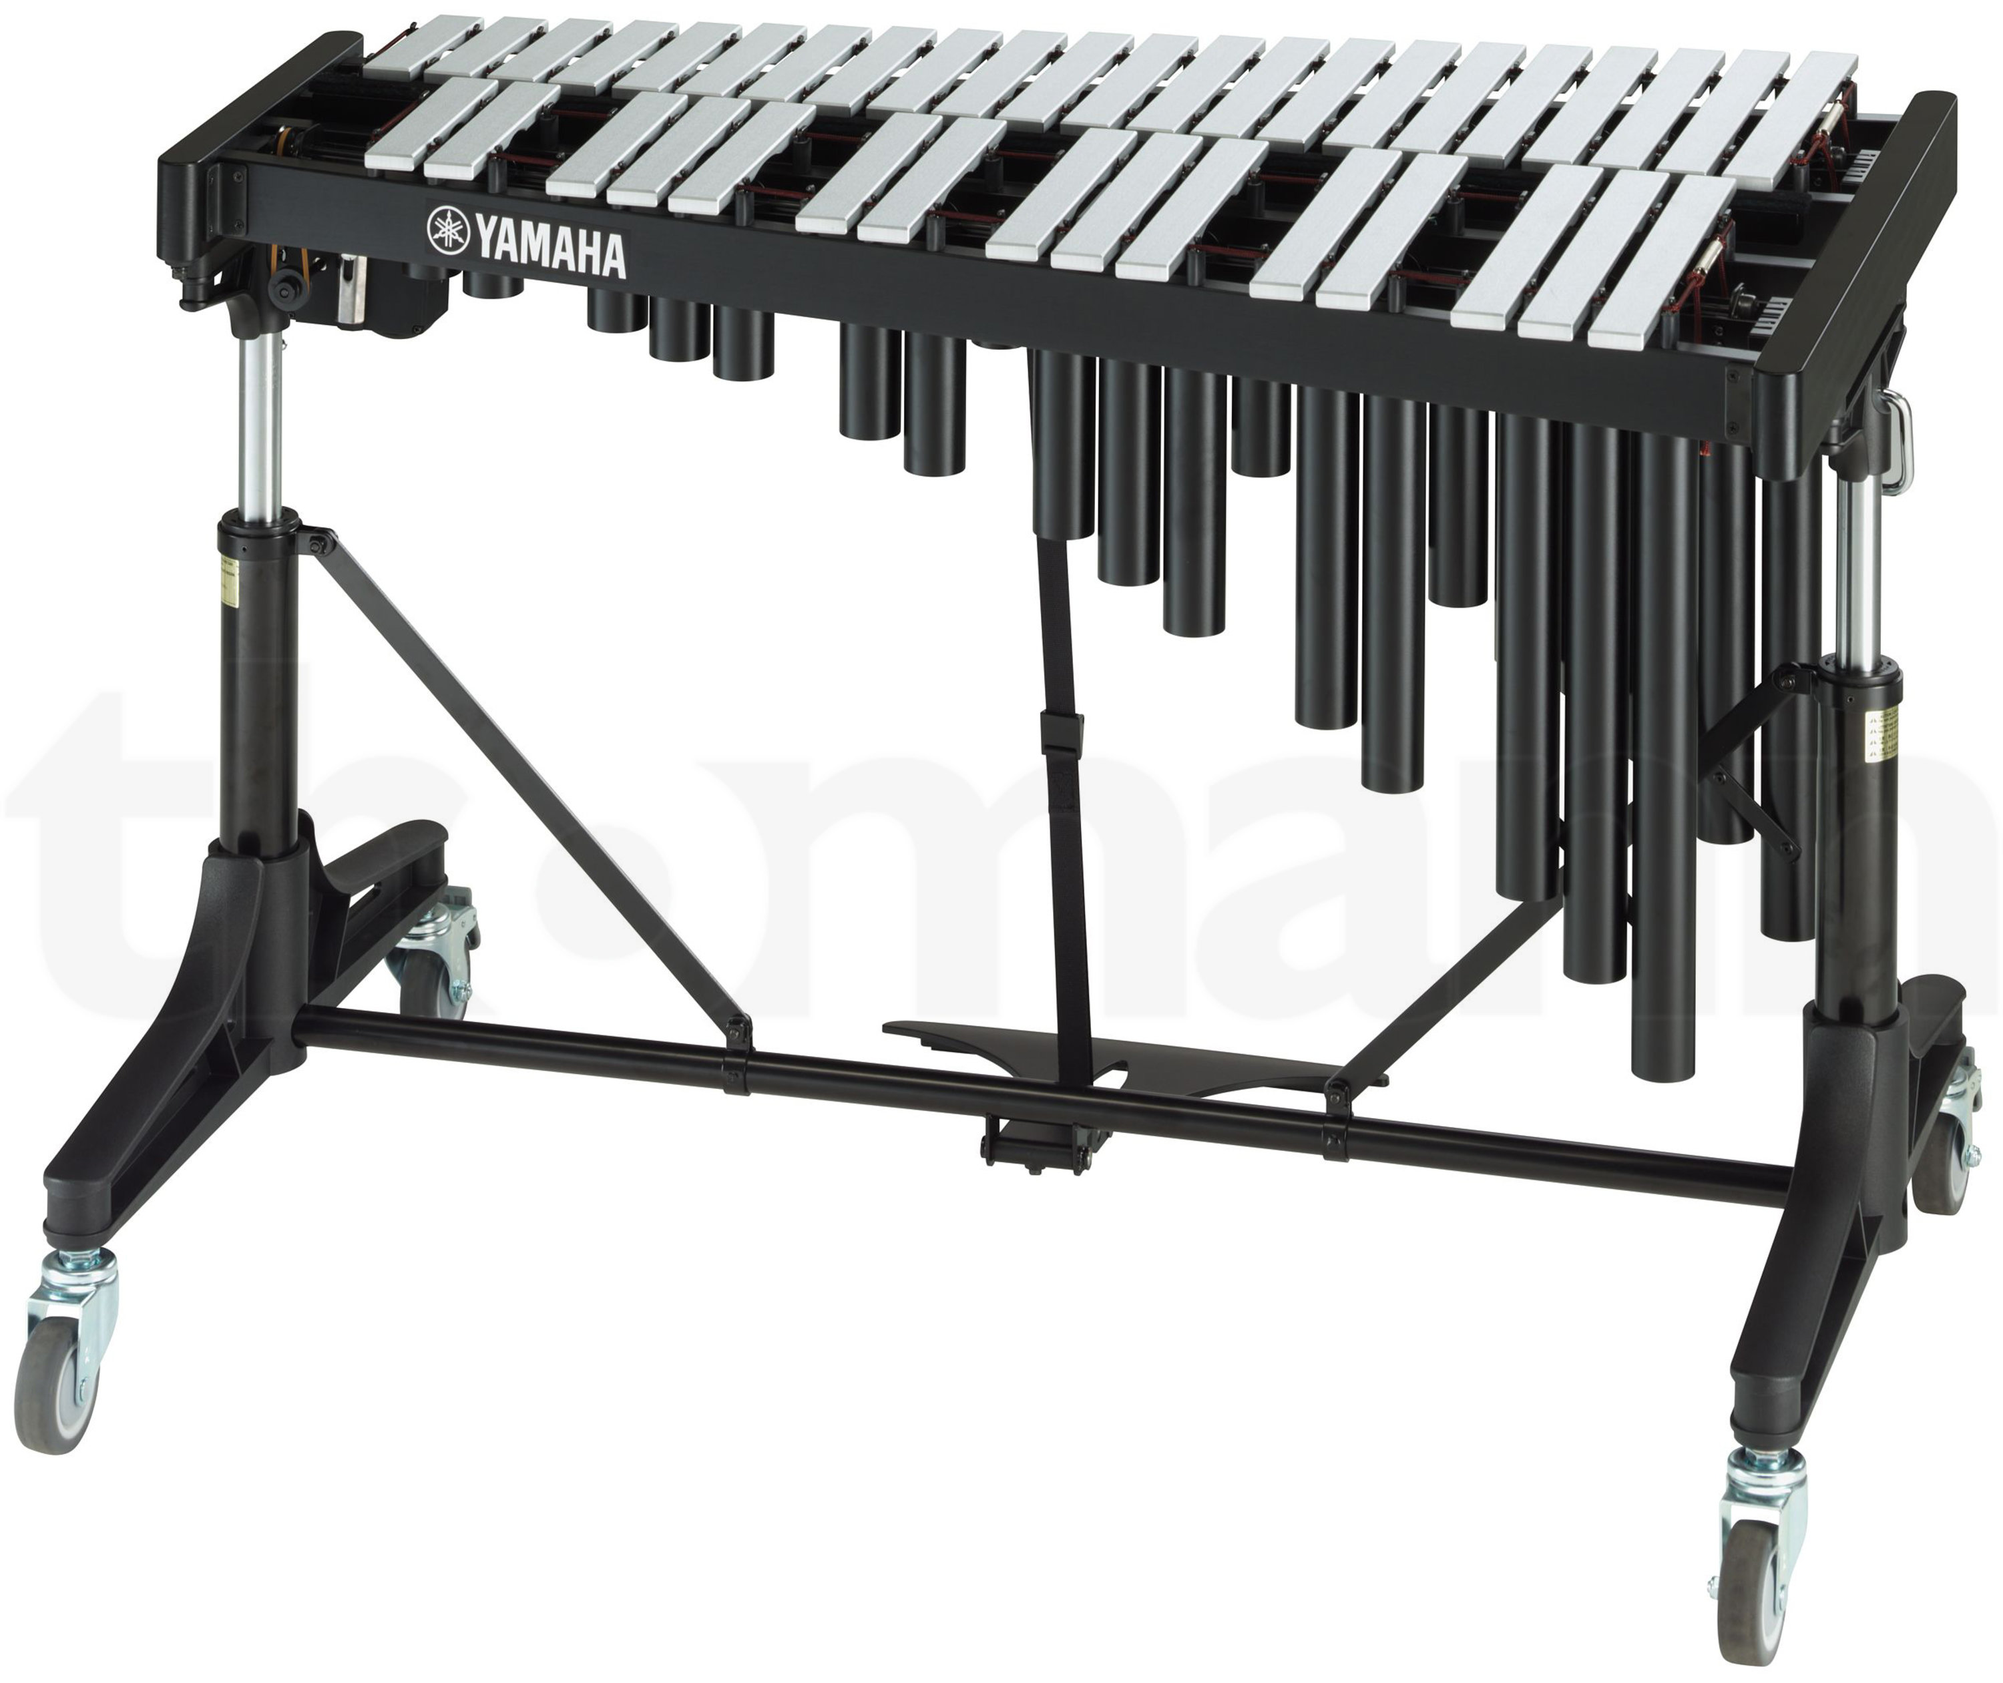
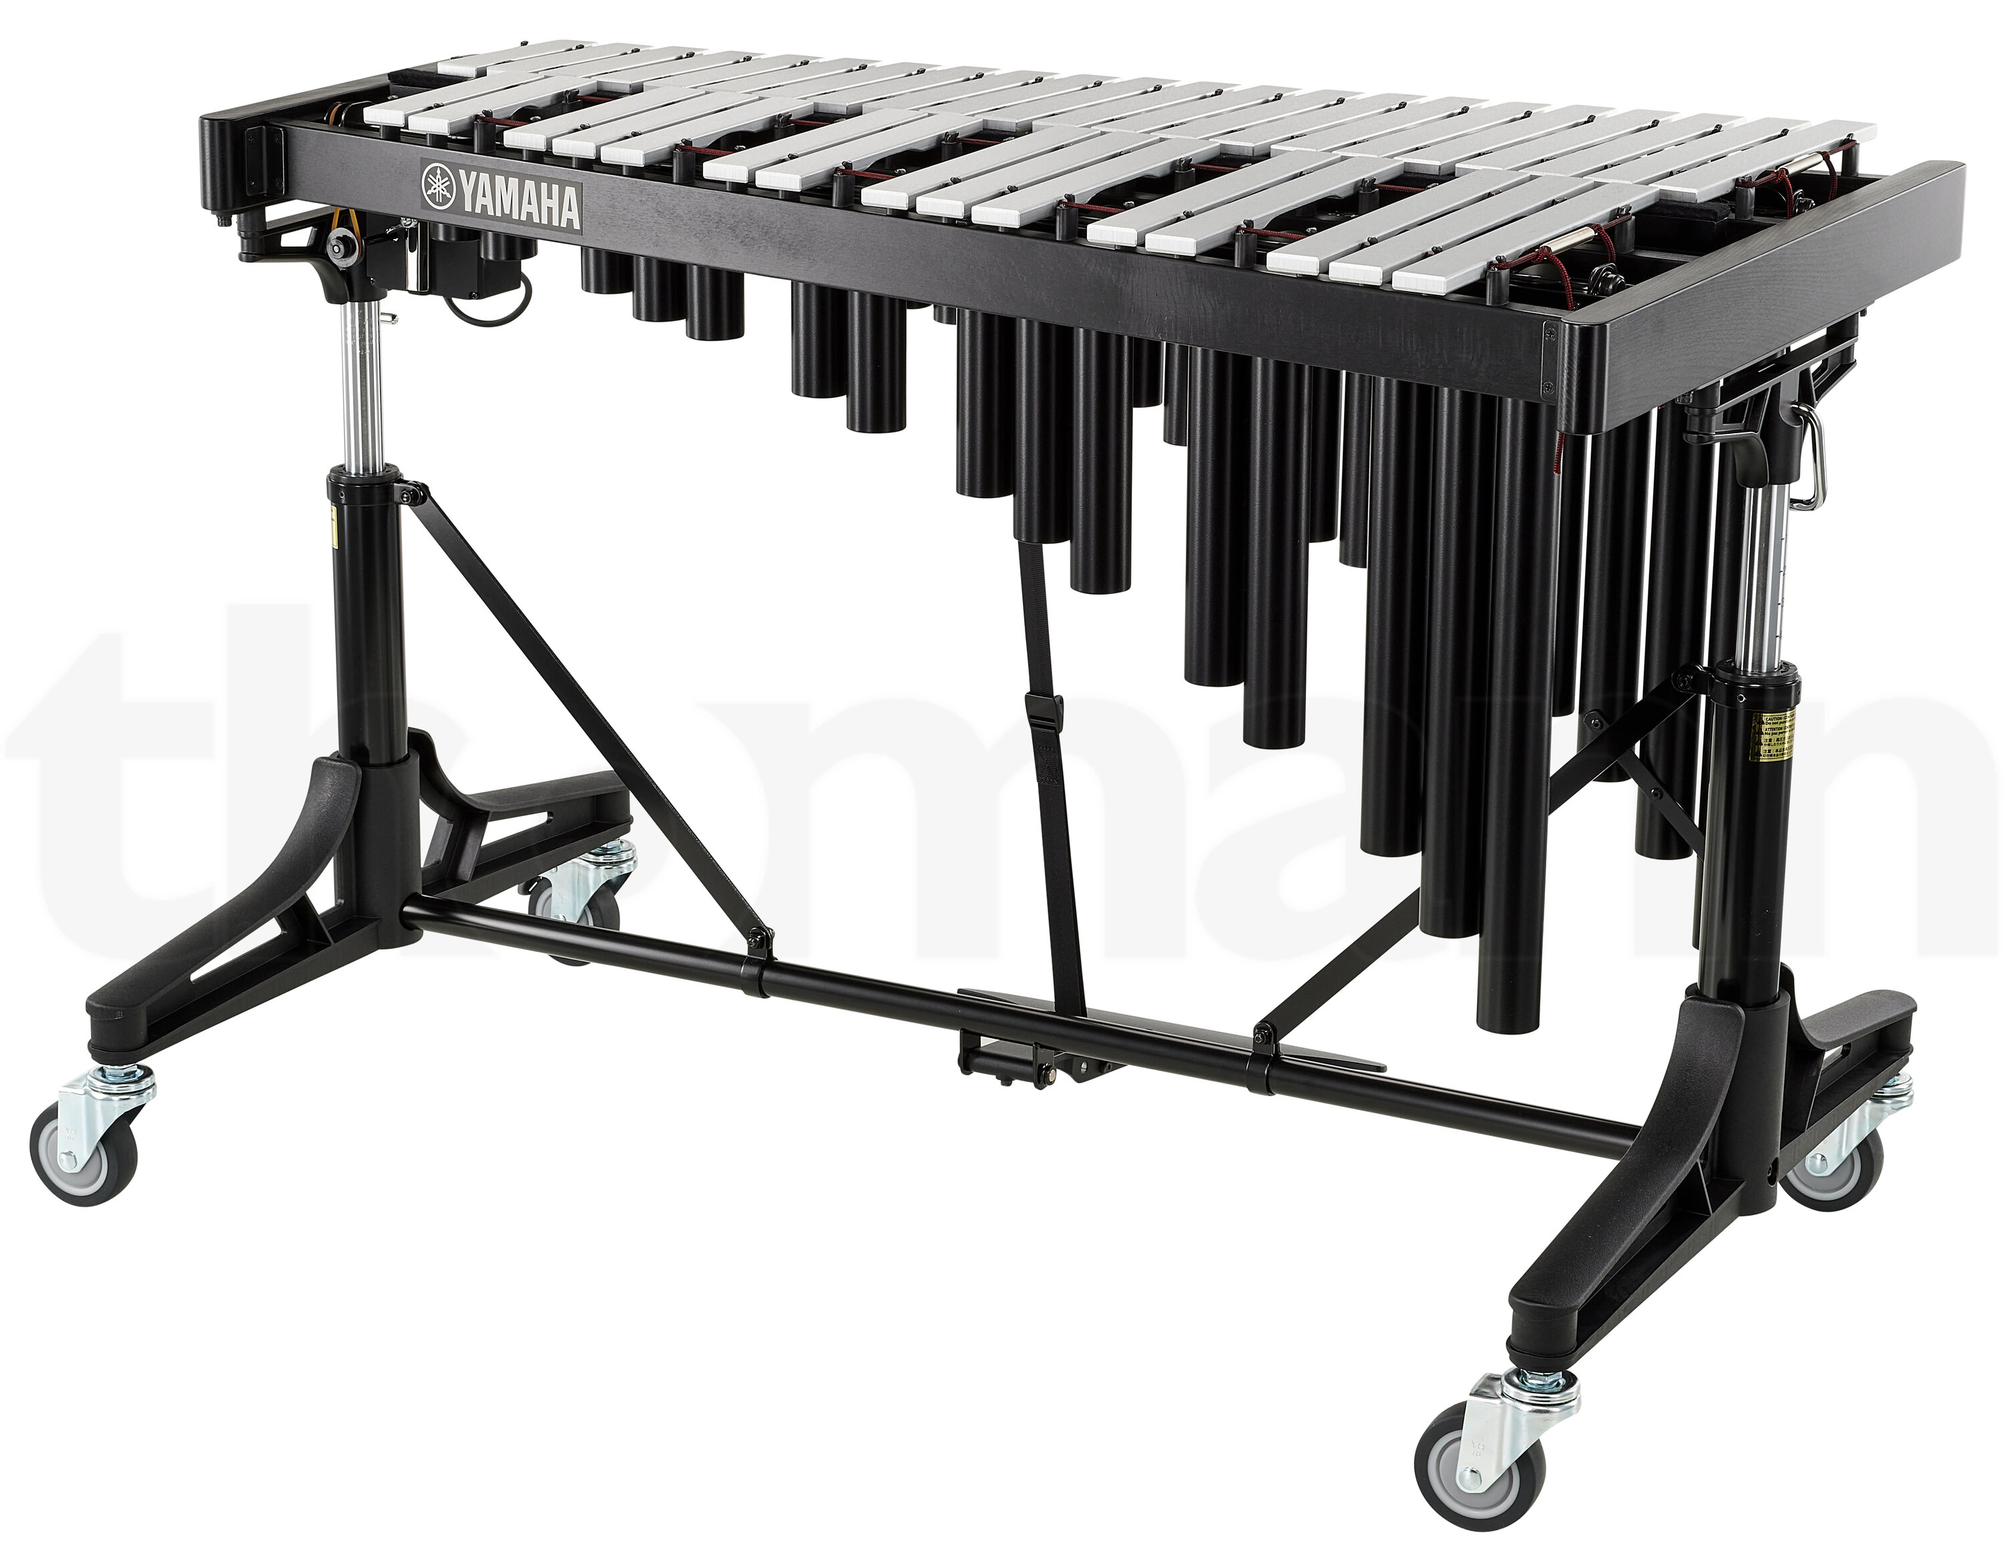
optimisation: créations de versions thumbnail des images

diff --git a/produits/classiques.html b/produits/classiques.html
@@ -85,22 +85,22 @@
             <form id="form-produit" action="https://portfolio-leo-peyronnet.netlify.app/redirect">
                 <fieldset id="selecteur">
                     <label for="Bergerault-Marimba-SRS50H-A=442Hz">
-                        <img src="../img/produits/classiques/Bergerault-Marimba-SRS50H-A=442Hz.jpg" alt="Bergerault Marimba SRS50H A=442Hz">
+                        <img src="../img/produits/classiques/thumbnail/Bergerault-Marimba-SRS50H-A=442Hz.jpg" alt="Bergerault Marimba SRS50H A=442Hz">
                         <span>Bergerault Marimba SRS50H A=442Hz</span>
                         <input id="Bergerault-Marimba-SRS50H-A=442Hz" value="Bergerault Marimba SRS50H A=442Hz" type="radio" name="choix-instrum">
                     </label>
                     <label for="Bergerault-MCBH-Marimba-Campus-A=442Hz">
-                        <img src="../img/produits/classiques/Bergerault-MCBH-Marimba-Campus-A=442Hz.jpg" alt="Bergerault MCBH Marimba Campus A=442Hz">
+                        <img src="../img/produits/classiques/thumbnail/Bergerault-MCBH-Marimba-Campus-A=442Hz.jpg" alt="Bergerault MCBH Marimba Campus A=442Hz">
                         <span>Bergerault MCBH Marimba Campus A=442Hz</span>
                         <input id="Bergerault-MCBH-Marimba-Campus-A=442Hz" value="Bergerault MCBH Marimba Campus A=442Hz" type="radio" name="choix-instrum">
                     </label>
                     <label for='Adams-Universal-Timpani-26"-+29"-FST'>
-                        <img src="../img/produits/classiques/Adams-Universal-Timpani-26-+29-FST.jpg" alt='Adams Universal Timpani 26" +29" FST'>
+                        <img src="../img/produits/classiques/thumbnail/Adams-Universal-Timpani-26-+29-FST.jpg" alt='Adams Universal Timpani 26" +29" FST'>
                         <span>Adams Universal Timpani 26" +29" FST</span>
                         <input id='Adams-Universal-Timpani-26"-+29"-FST' value='Adams-Universal-Timpani-26"-+29"-FST' type="radio" name="choix-instrum">
                     </label>
                     <label for="Yamaha-YV-2030-MS">
-                        <img src="../img/produits/classiques/Yamaha-YV-2030-MS.jpg" alt="Yamaha YV 2030 MS">
+                        <img src="../img/produits/classiques/thumbnail/Yamaha-YV-2030-MS.jpg" alt="Yamaha YV 2030 MS">
                         <span>Yamaha YV 2030 MS</span>
                         <input id="Yamaha-YV-2030-MS" value="Yamaha YV 2030 MS" type="radio" name="choix-instrum">
                     </label>
@@ -140,7 +140,7 @@
                             <h4>Images</h4>
                             <div class="conteneur-img">
                                 <img src="../img/produits/classiques/Bergerault-Marimba-SRS50H-A=442Hz/10151685.jpg" alt="Vue de devant">
-                                <img src="../img/produits/classiques/Bergerault-Marimba-SRS50H-A=442Hz.jpg" alt="Vue de derrière">
+                                <img src="../img/produits/classiques/Bergerault-Marimba-SRS50H-A=442Hz/Bergerault-Marimba-SRS50H-A=442Hz.jpg" alt="Vue de derrière">
                                 <img src="../img/produits/classiques/Bergerault-Marimba-SRS50H-A=442Hz/10151675.jpg" alt="Gros Plan">
                             </div>
                         </section>
@@ -177,7 +177,7 @@
                             <div class="conteneur-img">
                                 
                                 <img src="../img/produits/classiques/Bergerault-MCBH-Marimba-Campus-A=442Hz/15072095.jpg" alt="Vue de devant">
-                                <img src="../img/produits/classiques/Bergerault-MCBH-Marimba-Campus-A=442Hz.jpg" alt="Vue de derrière">
+                                <img src="../img/produits/classiques/Bergerault-MCBH-Marimba-Campus-A=442Hz/Bergerault-MCBH-Marimba-Campus-A=442Hz.jpg" alt="Vue de derrière">
                                 <img src="../img/produits/classiques/Bergerault-MCBH-Marimba-Campus-A=442Hz/15072040.jpg" alt="Gros Plan">
                             </div>
                         </section>
@@ -211,7 +211,7 @@
                         <section class="images">
                             <h4>Images</h4>
                             <div class="conteneur-img">
-                                <img src="../img/produits/classiques/Adams-Universal-Timpani-26-+29-FST.jpg" alt='Timbales 29" et 26"'>
+                                <img src="../img/produits/classiques/Adams-Universal-Timpani-26-+29-FST/Adams-Universal-Timpani-26-+29-FST.jpg" alt='Timbales 29" et 26"'>
                                 <img src="../img/produits/classiques/Adams-Universal-Timpani-26-+29-FST/15630530.jpg" alt='Timbales 29"'>
                                 <img src="../img/produits/classiques/Adams-Universal-Timpani-26-+29-FST/15630520.jpg" alt='Timbales 26"'>                               
                             </div>

diff --git a/produits/traditionnelles.html b/produits/traditionnelles.html
@@ -85,17 +85,17 @@
             <form id="form-produit" action="https://portfolio-leo-peyronnet.netlify.app/redirect">
                 <fieldset id="selecteur">
                     <label for="LP-A646B-AW-Aspire-Congas-10-11">
-                        <img src="../img/produits/traditionnelles/LP-A646B-AW-Aspire-Congas-10-11.jpg" alt="LP A646B-AW Aspire Congas 10-11">
+                        <img src="../img/produits/traditionnelles/thumbnail/LP-A646B-AW-Aspire-Congas-10-11.jpg" alt="LP A646B-AW Aspire Congas 10-11">
                         <span>LP A646B-AW Aspire Congas 10-11"</span>
                         <input id="LP-A646B-AW-Aspire-Congas-10-11" value="LP A646B-AW Aspire Congas 10-11" type="radio" name="choix-instrum">
                     </label>
                     <label for="LP-793X-Galaxy-Giovanni-Bongo-Set">
-                        <img src="../img/produits/traditionnelles/LP-793X-Galaxy-Giovanni-Bongo-Set.jpg" alt="LP 793X Galaxy Giovanni Bongo Set">
+                        <img src="../img/produits/traditionnelles/thumbnail/LP-793X-Galaxy-Giovanni-Bongo-Set.jpg" alt="LP 793X Galaxy Giovanni Bongo Set">
                         <span>LP 793X Galaxy Giovanni Bongo Set</span>
                         <input id="LP-793X-Galaxy-Giovanni-Bongo-Set" value="LP 793X Galaxy Giovanni Bongo Set" type="radio" name="choix-instrum">
                     </label>
                     <label for='Meinl-Artisan-Bulería-Cajon-Mongoy'>
-                        <img src="../img/produits/traditionnelles/Meinl-Artisan-Bulería-Cajon-Mongoy.jpg" alt='Meinl Artisan Bulería Cajon Mongoy'>
+                        <img src="../img/produits/traditionnelles/thumbnail/Meinl-Artisan-Bulería-Cajon-Mongoy.jpg" alt='Meinl Artisan Bulería Cajon Mongoy'>
                         <span>Meinl Artisan Bulería Cajon Mongoy</span>
                         <input id='Meinl-Artisan-Bulería-Cajon-Mongoy' value='Meinl Artisan Bulería Cajon Mongoy' type="radio" name="choix-instrum">
                     </label>
@@ -132,7 +132,7 @@
                         <section class="images">
                             <h4>Images</h4>
                             <div class="conteneur-img">
-                                <img src="../img/produits/traditionnelles/LP-A646B-AW-Aspire-Congas-10-11.jpg" alt="Vue de devant">
+                                <img src="../img/produits/traditionnelles/LP-A646B-AW-Aspire-Congas-10-11/LP-A646B-AW-Aspire-Congas-10-11.jpg" alt="Vue de devant">
                                 <img src="../img/produits/traditionnelles/LP-A646B-AW-Aspire-Congas-10-11/10783805.jpg" alt="Vue de devant alternative">
                                 <img src="../img/produits/traditionnelles/LP-A646B-AW-Aspire-Congas-10-11/10783820.jpg" alt="Gros plan sur les peaux">
                                 
@@ -167,7 +167,7 @@
                         <section class="images">
                             <h4>Images</h4>
                             <div class="conteneur-img">
-                                <img src="../img/produits/traditionnelles/LP-793X-Galaxy-Giovanni-Bongo-Set.jpg"  alt="Vue de devant">
+                                <img src="../img/produits/traditionnelles/LP-793X-Galaxy-Giovanni-Bongo-Set/LP-793X-Galaxy-Giovanni-Bongo-Set.jpg"  alt="Vue de devant">
                                 <img src="../img/produits/traditionnelles/LP-793X-Galaxy-Giovanni-Bongo-Set/11036106.jpg" alt="Vue de devant alternative">
                                 <img src="../img/produits/traditionnelles/LP-793X-Galaxy-Giovanni-Bongo-Set/11036121.jpg" alt="Gros plan sur les peaux">
                             </div>
@@ -202,7 +202,7 @@
                         <section class="images">
                             <h4>Images</h4>
                             <div class="conteneur-img">
-                                <img src="../img/produits/traditionnelles/Meinl-Artisan-Bulería-Cajon-Mongoy.jpg" alt='Vue de biais'> 
+                                <img src="../img/produits/traditionnelles/Meinl-Artisan-Bulería-Cajon-Mongoy/Meinl-Artisan-Bulería-Cajon-Mongoy.jpg" alt='Vue de biais'> 
                                 <img src="../img/produits/traditionnelles/Meinl-Artisan-Bulería-Cajon-Mongoy/16965330.jpg" alt='Vue de face'>
                                 <img src="../img/produits/traditionnelles/Meinl-Artisan-Bulería-Cajon-Mongoy/16965335.jpg" alt='Vue de dos'>
                                 <img src="../img/produits/traditionnelles/Meinl-Artisan-Bulería-Cajon-Mongoy/16965385.jpg" alt='Gros plan sur le timbre'>                           

diff --git a/produits/bat-acoustiques.html b/produits/bat-acoustiques.html
@@ -84,32 +84,32 @@
             <form id="form-produit" action="https://portfolio-leo-peyronnet.netlify.app/redirect">
                 <fieldset id="selecteur">
                     <label for="Pearl-Decade-Maple-6pc-Black-Burst">
-                        <img src="../img/produits/bat-acoustiques/Pearl-Decade-Maple-6pc-Black-Burst.jpg" alt="Pearl Decade Maple 6pc Black Burst">
+                        <img src="../img/produits/bat-acoustiques/thumbnail/Pearl-Decade-Maple-6pc-Black-Burst.jpg" alt="Pearl Decade Maple 6pc Black Burst">
                         <span>Pearl Decade Maple 6pc Black Burst</span>
                         <input id="Pearl-Decade-Maple-6pc-Black-Burst" value="Pearl Decade Maple 6pc Black Burst" type="radio" name="choix-instrum">
                     </label>
                     <label for="Sonor-AQ1-Stage-Set-Caribbean-Blue">
-                        <img src="../img/produits/bat-acoustiques/Sonor-AQ1-Stage-Set-Caribbean-Blue.jpg" alt="Sonor AQ1 Stage Set Caribbean Blue">
+                        <img src="../img/produits/bat-acoustiques/thumbnail/Sonor-AQ1-Stage-Set-Caribbean-Blue.jpg" alt="Sonor AQ1 Stage Set Caribbean Blue">
                         <span>Sonor AQ1 Stage Set Caribbean Blue</span>
                         <input id="Sonor-AQ1-Stage-Set-Caribbean-Blue" value="Sonor AQ1 Stage Set Caribbean Blue" type="radio" name="choix-instrum">
                     </label>
                     <label for="Tama-Superstar-Classic-Kit-20-CFF">
-                        <img src="../img/produits/bat-acoustiques/Tama-Superstar-Classic-Kit-20-CFF.jpg" alt="Tama Superstar Classic Kit 20 CFF">
+                        <img src="../img/produits/bat-acoustiques/thumbnail/Tama-Superstar-Classic-Kit-20-CFF.jpg" alt="Tama Superstar Classic Kit 20 CFF">
                         <span>Tama Superstar Classic Kit 20 CFF</span>
                         <input id="Tama-Superstar-Classic-Kit-20-CFF" value="Tama Superstar Classic Kit 20 CFF" type="radio" name="choix-instrum">
                     </label>
                     <label for="Yamaha-Stage-Custom-Standard-Set-CLW">
-                        <img src="../img/produits/bat-acoustiques/Yamaha-Stage-Custom-Standard-Set-CLW.jpg" alt="Yamaha Stage Custom Standard Set CLW">
+                        <img src="../img/produits/bat-acoustiques/thumbnail/Yamaha-Stage-Custom-Standard-Set-CLW.jpg" alt="Yamaha Stage Custom Standard Set CLW">
                         <span>Yamaha Stage Custom Standard Set CLW</span>
                         <input id="Yamaha-Stage-Custom-Standard-Set-CLW" value="Yamaha Stage Custom Standard Set CLW" type="radio" name="choix-instrum">
                     </label>
                     <label for="Tama-Superstar-Cl.-22-3-pcs-Kit-CFF">
-                        <img src="../img/produits/bat-acoustiques/Tama-Superstar-Cl.-22-3-pcs-Kit-CFF.jpg" alt="Tama Superstar Cl. 22 3-pcs Kit CFF">
+                        <img src="../img/produits/bat-acoustiques/thumbnail/Tama-Superstar-Cl.-22-3-pcs-Kit-CFF.jpg" alt="Tama Superstar Cl. 22 3-pcs Kit CFF">
                         <span>Tama Superstar Cl. 22 3-pcs Kit CFF</span>
                         <input id="Tama-Superstar-Cl.-22-3-pcs-Kit-CFF" value="Tama Superstar Cl. 22 3-pcs Kit CFF" type="radio" name="choix-instrum">
                     </label>
                     <label for="DrumCraft-Series-4-Standard-Set-BAF">
-                        <img src="../img/produits/bat-acoustiques/DrumCraft-Series-4-Standard-Set-BAF.jpg" alt="DrumCraft Series 4 Standard Set BAF">
+                        <img src="../img/produits/bat-acoustiques/thumbnail/DrumCraft-Series-4-Standard-Set-BAF.jpg" alt="DrumCraft Series 4 Standard Set BAF">
                         <span>DrumCraft Series 4 Standard Set BAF</span>
                         <input id="DrumCraft-Series-4-Standard-Set-BAF" value="DrumCraft Series 4 Standard Set BAF" type="radio" name="choix-instrum">
                     </label>

diff --git a/produits/bat-electroniques.html b/produits/bat-electroniques.html
@@ -84,12 +84,12 @@
             <form id="form-produit" action="https://portfolio-leo-peyronnet.netlify.app/redirect">
                 <fieldset id="selecteur">
                     <label for="Roland-TD-07KV-V-Drum-Set">
-                        <img src="../img/produits/bat-electroniques/Roland-TD-07KV-V-Drum-Set.jpg" alt="Roland TD-07KV V-Drum Set">
+                        <img src="../img/produits/bat-electroniques/thumbnail/Roland-TD-07KV-V-Drum-Set.jpg" alt="Roland TD-07KV V-Drum Set">
                         <span>Roland TD-07KV V-Drum Set</span>
                         <input id="Roland-TD-07KV-V-Drum-Set" value="Roland TD-07KV V-Drum Set" type="radio" name="choix-instrum">
                     </label>
                     <label for="Roland-TD-27KV2-E-Drum-Set">
-                        <img src="../img/produits/bat-electroniques/Roland-TD-27KV2-E-Drum-Set.jpg" alt="Roland TD-27KV2 E-Drum Set">
+                        <img src="../img/produits/bat-electroniques/thumbnail/Roland-TD-27KV2-E-Drum-Set.jpg" alt="Roland TD-27KV2 E-Drum Set">
                         <span>Roland-TD-27KV2-E-Drum-Set</span>
                         <input id="Roland-TD-27KV2-E-Drum-Set" value="Roland TD-27KV2 E-Drum Set" type="radio" name="choix-instrum">
                     </label>
